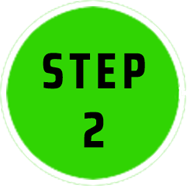
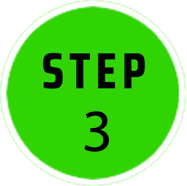
worlds added and step2 fixed and PNG fixed

Changed region(s): [[0.4278, 0.5914, 0.5882, 0.8333]]

diff --git a/public/css/app.css b/public/css/app.css
@@ -336,7 +336,6 @@ a {
 .section-3-img-container {
   position: relative;
   display: block;
-  padding-left: 2rem;
   text-align: left;
   top: 50%;
 }
@@ -346,7 +345,7 @@ a {
   display: inline-block;
   position: absolute;
   top: 15%;
-  left: 5%;
+  left: 2%;
   z-index: 200;
 }
 
@@ -1186,7 +1185,7 @@ words:[
 
 .arango .main-img {
   position: relative;
-  width: 95%;
+  width: 80%;
   left: 5rem;
 }
 
@@ -1260,7 +1259,7 @@ words:[
 
 .bannoo .main-img {
   position: relative;
-  width: 95%;
+  width: 80%;
   left: 5rem;
 }
 
@@ -1292,9 +1291,11 @@ words:[
   letter-spacing: 1.1px;
 }
 
-.bannoo .section-banner-imgs {
-  left: calc(16.66666667% - 23.33333333px + 20px);
+.bannoo .figure {
   position: relative;
+  vertical-align: text-top;
+  height: 23rem;
+  left: 50%;
 }
 
 .bannoo .section-banner-imgs::after {
@@ -1304,6 +1305,8 @@ words:[
 }
 
 .bannoo .section-banner-imgs .banner-card {
+  left: calc(41.66666667% - 28.33333333px + 20px);
+  position: relative;
   width: calc(25% - 25px);
   float: left;
   margin-left: 20px;
@@ -1334,7 +1337,7 @@ words:[
 
 .chupanzi .main-img {
   position: relative;
-  width: 95%;
+  width: 80%;
   left: 5rem;
 }
 
@@ -1367,7 +1370,7 @@ words:[
 }
 
 .chupanzi .section-banner-imgs {
-  left: calc(16.66666667% - 23.33333333px + 20px);
+  left: calc(29.16666667% - 25.83333333px + 20px);
   position: relative;
 }
 
@@ -1408,7 +1411,7 @@ words:[
 
 .devo .main-img {
   position: relative;
-  width: 95%;
+  width: 80%;
   left: 5rem;
 }
 
@@ -1441,8 +1444,9 @@ words:[
 }
 
 .devo .section-banner-imgs {
-  left: calc(16.66666667% - 23.33333333px + 20px);
+  left: calc(25% - 25px + 20px);
   position: relative;
+  margin-top: 3rem;
 }
 
 .devo .section-banner-imgs::after {
@@ -1482,7 +1486,7 @@ words:[
 
 .erax .main-img {
   position: relative;
-  width: 95%;
+  width: 80%;
   left: 5rem;
 }
 
@@ -1514,9 +1518,17 @@ words:[
   letter-spacing: 1.1px;
 }
 
-.erax .section-banner-imgs {
-  left: calc(16.66666667% - 23.33333333px + 20px);
+.erax p.tag {
   position: relative;
+  top: -7rem;
+  left: 100rem;
+  font-size: 1.3rem;
+}
+
+.erax .section-banner-imgs {
+  left: calc(29.16666667% - 25.83333333px + 20px);
+  position: relative;
+  top: -8rem;
 }
 
 .erax .section-banner-imgs::after {
@@ -1556,7 +1568,7 @@ words:[
 
 .fodo .main-img {
   position: relative;
-  width: 95%;
+  width: 80%;
   left: 5rem;
 }
 
@@ -1588,9 +1600,17 @@ words:[
   letter-spacing: 1.1px;
 }
 
+.fodo .robot-figure {
+  position: absolute;
+  width: 40rem;
+  top: 25rem;
+  left: 0;
+}
+
 .fodo .section-banner-imgs {
-  left: calc(16.66666667% - 23.33333333px + 20px);
+  left: calc(37.5% - 27.5px + 20px);
   position: relative;
+  margin-top: 3.5rem;
 }
 
 .fodo .section-banner-imgs::after {

diff --git a/resources/assets/sass/4-pages/worlds/_bannoo.scss b/resources/assets/sass/4-pages/worlds/_bannoo.scss
@@ -5,7 +5,7 @@
     }
     .main-img{
         position: relative;
-        width: 95%; 
+        width: 80%; 
         left: 5rem;
     }
     .secondary-img{
@@ -31,10 +31,17 @@
             letter-spacing: 1.1px;
         }
     }
+    .figure{
+        position: relative;
+        vertical-align: text-top;
+        height: 23rem;
+        left: 50%;
+    }
     .section-banner-imgs{
         @include grid-container;
-        @include grid-shift(2);
+        
         .banner-card{
+            @include grid-shift(5);
             @include grid-column(3);
         }
         .banner-img{

diff --git a/resources/assets/sass/4-pages/worlds/_fodo.scss b/resources/assets/sass/4-pages/worlds/_fodo.scss
@@ -5,7 +5,7 @@
     }
     .main-img{
         position: relative;
-        width: 95%; 
+        width: 80%; 
         left: 5rem;
     }
     .secondary-img{
@@ -31,9 +31,16 @@
             letter-spacing: 1.1px;
         }
     }
+    .robot-figure{
+        position: absolute;
+        width: 40rem;
+        top: 25rem;
+        left: 0;
+    }
     .section-banner-imgs{
         @include grid-container;
-        @include grid-shift(2);
+        @include grid-shift(4.5);
+        margin-top: 3.5rem;
         .banner-card{
             @include grid-column(3);
         }

diff --git a/resources/assets/sass/4-pages/worlds/_erax.scss b/resources/assets/sass/4-pages/worlds/_erax.scss
@@ -5,7 +5,7 @@
     }
     .main-img{
         position: relative;
-        width: 95%; 
+        width: 80%; 
         left: 5rem;
     }
     .secondary-img{
@@ -31,9 +31,16 @@
             letter-spacing: 1.1px;
         }
     }
+    p.tag{
+        position: relative;
+        top: -7rem;
+        left: 100rem;
+        font-size: 1.3rem;
+    }
     .section-banner-imgs{
         @include grid-container;
-        @include grid-shift(2);
+        @include grid-shift(3.5);
+        top: -8rem;
         .banner-card{
             @include grid-column(3);
         }

diff --git a/resources/assets/sass/4-pages/worlds/_devo.scss b/resources/assets/sass/4-pages/worlds/_devo.scss
@@ -5,7 +5,7 @@
     }
     .main-img{
         position: relative;
-        width: 95%; 
+        width: 80%; 
         left: 5rem;
     }
     .secondary-img{
@@ -33,7 +33,8 @@
     }
     .section-banner-imgs{
         @include grid-container;
-        @include grid-shift(2);
+        @include grid-shift(3);
+        margin-top: 3rem;
         .banner-card{
             @include grid-column(3);
         }

diff --git a/resources/assets/sass/4-pages/home/_section-3.scss b/resources/assets/sass/4-pages/home/_section-3.scss
@@ -27,16 +27,18 @@
     &-img-container{
         position: relative;
         display: block;
-        padding-left: 2rem;
         text-align: left;
         top: 50%;   
+    }
+    &-img{
+        
     }
     &-link{
         color: $black;
         display: inline-block;
         position: absolute;
         top: 15%;
-        left: 5%;
+        left: 2%;
         z-index: 200;
     }
 }

diff --git a/resources/assets/sass/4-pages/worlds/_chupanzi.scss b/resources/assets/sass/4-pages/worlds/_chupanzi.scss
@@ -5,7 +5,7 @@
     }
     .main-img{
         position: relative;
-        width: 95%; 
+        width: 80%; 
         left: 5rem;
     }
     .secondary-img{
@@ -33,7 +33,7 @@
     }
     .section-banner-imgs{
         @include grid-container;
-        @include grid-shift(2);
+        @include grid-shift(3.5);
         .banner-card{
             @include grid-column(3);
         }

diff --git a/resources/assets/sass/4-pages/worlds/_arango.scss b/resources/assets/sass/4-pages/worlds/_arango.scss
@@ -5,7 +5,7 @@
     }
     .main-img{
         position: relative;
-        width: 95%; 
+        width: 80%; 
         left: 5rem;
     }
     .secondary-img{

diff --git a/resources/views/index.blade.php b/resources/views/index.blade.php
@@ -76,7 +76,7 @@
 		<h2 class="section-3-sub-header red small-font">TO STAR SYSTEM 62</h2>
 		<div class="section-3-img-container">
 			<!-- Step 1 button -->
-			<a class="section-3-link" href="">STEP 1</a>
+			<a class="section-3-link" href="/videos/1">STEP 1</a>
 			<img class="section-3-img" src="images/1/p3_butn.png" alt="step1">
 		</div>
     </div>
@@ -187,8 +187,8 @@
 		<div class="section-5-right-section">
 			<div class="section-5-sondoonin-logo">SANDOONIAN LOGO</div>
 			<img class="section-5-robot-img" src="images/1/p5_left_img.png" alt="EPC ERANIUM PROCESSOR CORE">
-			<a href="#"> 
-				<img class="section-5-step2-btn" src="images/1/p5_step2_btn.png" alt="step-2">
+			<a href="/videos/2"> 
+				<img class="section-5-step2-btn" src="images/1/p5_step2_btn.PNG" alt="step-3">
 			</a>
 		</div>
 	</div>
@@ -198,7 +198,7 @@
 <section class="section-6">
     <div class="row" >
 		<h1 class="section-6-header header-shadow">Power62 <span class="small-font">TM</span>Game v 1.0
-		<a class="section-6-youtube-link"href="#"><ion-icon class="section-6-youtube-icon" name="logo-youtube"></ion-icon>Play The Game</a>
+		<a class="section-6-youtube-link"href="/underconstruction"><ion-icon class="section-6-youtube-icon" name="logo-youtube"></ion-icon>Play The Game</a>
 		</h1>
 		<div class="section-6-col-1">
 			<img class= "section-6-picture-group" src="../images/home/section-6/left-picture-group.PNG" alt="picture group">

diff --git a/resources/views/worlds/bannoo.blade.php b/resources/views/worlds/bannoo.blade.php
@@ -20,11 +20,11 @@
                 the citizens of India, China, Japan and Korea on earth. After Bannoo's revolution and declaration 
                 of independence, the colonist's powerful will to survive shaped the colony, and created a 
                 technologically advanced society and a new class of warrior, the Techno-Ninjas.
+                <img src="../images/worlds/bannoo/female-figure.png" alt="figure" class="figure">
             </p>
         </div>
     </div>
     <div class="row">
-        <img src="../images/worlds/bannoo/female-figure.png" alt="figure" class="figure">
         <div class="section-banner-imgs">
             <div class="banner-card">
                 <img src="../images/worlds/bannoo/sub_1.png" alt="sub_1" class="banner-img">

diff --git a/resources/views/videos/view.blade.php b/resources/views/videos/view.blade.php
@@ -17,7 +17,12 @@
                 SEE WHY WE'ER ALL AT RISK.
             @endif
         </h1>
-		<iframe class="iframe" src="https://www.youtube.com/embed/VCnqFcr-2FE" frameborder="0" allow="autoplay; encrypted-media" allowfullscreen=""></iframe>
+        @if($_SERVER['REQUEST_URI'] == "/videos/1")
+            <iframe width="560" height="315" src="https://www.youtube.com/embed/bn40jr3or_Y" frameborder="0" allow="autoplay; encrypted-media" allowfullscreen></iframe>       
+        @endif
+        @if($_SERVER['REQUEST_URI'] == "/videos/2")
+            <iframe width="560" height="315" src="https://www.youtube.com/embed/BlKGZUh_zOU" frameborder="0" allow="autoplay; encrypted-media" allowfullscreen></iframe>    
+        @endif
     </div>
 </div>
 

diff --git a/resources/views/worlds/fodo.blade.php b/resources/views/worlds/fodo.blade.php
@@ -22,8 +22,9 @@
             </p>
         </div>
     </div>
+    <img src="../images/worlds/fodo/figure.png" alt="robot figure" class="robot-figure">
     <div class="row">
-        <img src="../images/worlds/fodo/figure.png" alt="robot figure" class="robot-figure">
+        
         <p class="tag">BINKE84</p> 
         <div class="section-banner-imgs">
             <div class="banner-card">
